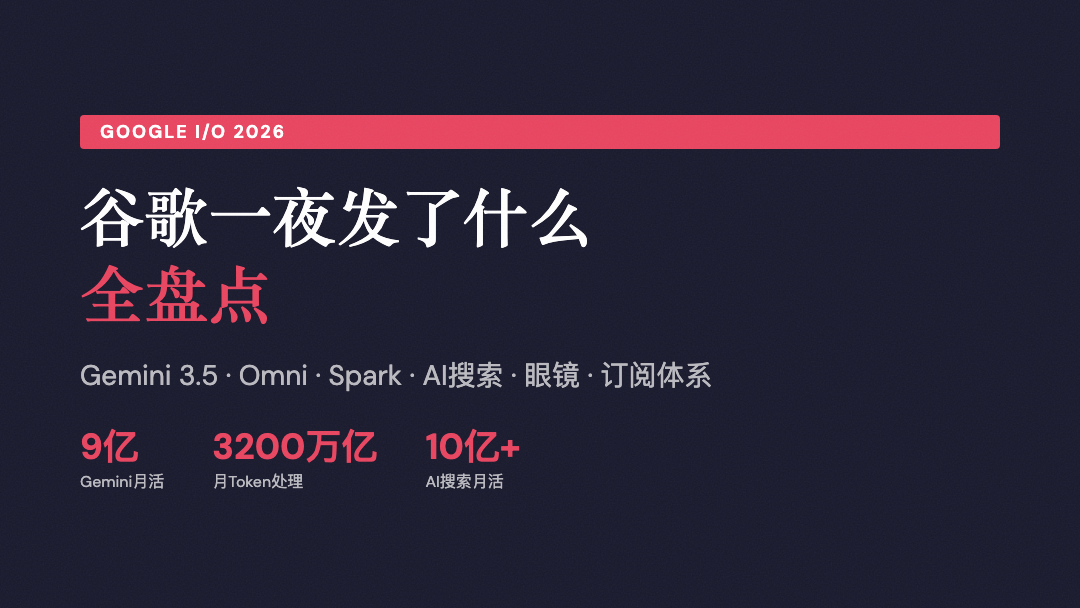
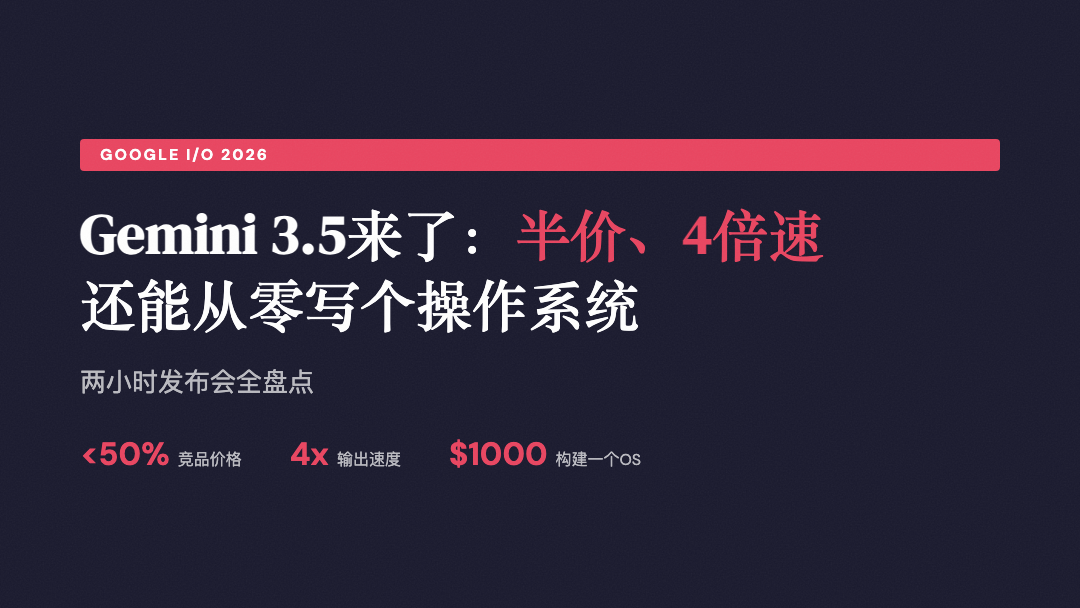
feat：调整gzh-writes：step2生成文章过于死板问题

diff --git a/docs/finance/通信半导体电子_科创板与创业板对比.md b/docs/finance/通信半导体电子_科创板与创业板对比.md
@@ -1,0 +1,53 @@
+# 通信、半导体、电子：科创板 vs 创业板对比
+
+## 核心定位差异
+
+| | 科创板 | 创业板 |
+|---|---|---|
+| 定位 | "硬科技"，强调核心技术突破 | "三创四新"，成长性优先 |
+| 审核标准 | 对研发投入/专利有硬性要求 | 更看重业绩增长 |
+| 上市门槛 | 允许未盈利企业上市 | 一般需要盈利 |
+
+## 半导体（含存储、芯片）
+
+| | 科创板 | 创业板 |
+|---|---|---|
+| 企业类型 | 设计+设备+材料+EDA，偏上游、偏"卡脖子" | 偏下游应用、封测、模拟芯片 |
+| 代表公司 | 中芯国际、海光信息、中微公司、澜起科技、寒武纪、华大九天 | 卓胜微、圣邦股份、北京君正 |
+| 特点 | 研发投入大、很多上市时未盈利、估值高 | 盈利相对稳定、细分赛道龙头 |
+
+> 科创板是半导体的绝对主场，占科创50指数50-55%权重。
+
+## 通信
+
+| | 科创板 | 创业板 |
+|---|---|---|
+| 企业类型 | 通信芯片、卫星通信、量子通信等前沿技术 | 光模块、网络设备、通信服务等偏应用端 |
+| 代表公司 | 翱捷科技（通信SoC）、国盾量子 | 中际旭创、新易盛、锐捷网络 |
+| 特点 | 技术门槛高、商业化早期 | 已有成熟收入、订单驱动 |
+
+> 光模块龙头基本都在创业板（中际旭创、新易盛）。
+
+## 电子
+
+| | 科创板 | 创业板 |
+|---|---|---|
+| 企业类型 | 高端检测设备、精密传感器、先进显示 | 消费电子、PCB、被动元器件、面板 |
+| 代表公司 | 华兴源创（检测）、格科微（CIS） | 沪电股份、深南电路、立讯精密、京东方 |
+| 特点 | 设备/器件级，技术壁垒高 | 规模效应驱动，和终端需求紧密挂钩 |
+
+## 一句话总结
+
+- 科创板 → 技术原点（芯片设计、设备、EDA、前沿通信）→ 高研发、可能不赚钱、高波动
+- 创业板 → 商业落地（光模块、PCB、消费电子、应用端）→ 有利润、估值相对合理、成长驱动
+
+## 投资选择参考
+
+| 方向 | 优先选 |
+|------|--------|
+| 半导体国产替代（设备+设计） | 科创板相关ETF（如科创50） |
+| AI算力（光模块+PCB） | 创业板相关标的 |
+| 存储芯片 | 兆易创新（主板）、北京君正（创业板）、长江存储/长鑫（未上市） |
+| 均衡配置科技成长 | 科创创业50（两边都选） |
+
+> 免责声明：以上为信息整理对比，不构成投资建议。

diff --git a/docs/gzh/2026-05-20-google-io.md b/docs/gzh/2026-05-20-google-io.md
@@ -1,13 +1,13 @@
 ---
-title: Google I/O 2026 全盘点：谷歌一夜发了什么
+title: Gemini 3.5来了：半价、4倍速、还能从零写个操作系统
 date: 2026-05-20
 tags: [AI, 谷歌, Google I/O, Gemini, 产品盘点]
-summary: Google I/O 2026 两小时发布会，十余款产品倾巢而出。逐个拆解，看谷歌到底在布什么局。
+summary: 半价干翻竞品，4倍速碾压同行，1000美元从零构建操作系统。Google I/O 2026全盘点。
 ---
 
 5月20日凌晨，Google I/O 2026 落幕。两小时的发布会信息密度极高，皮查伊开场就甩出三个数字：**Gemini App月活9亿，每月处理3200万亿token，AI搜索模式月活突破10亿。**
 
-产品太多，我们按四条线拆解。
+产品太多，按四条线拆解。
 
 ---
 
